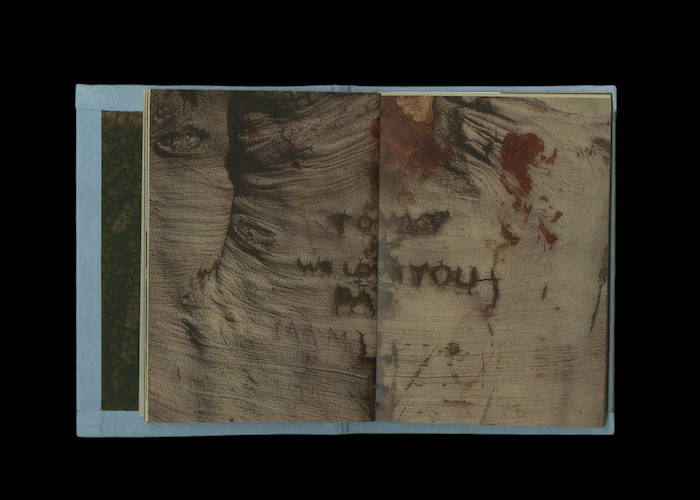
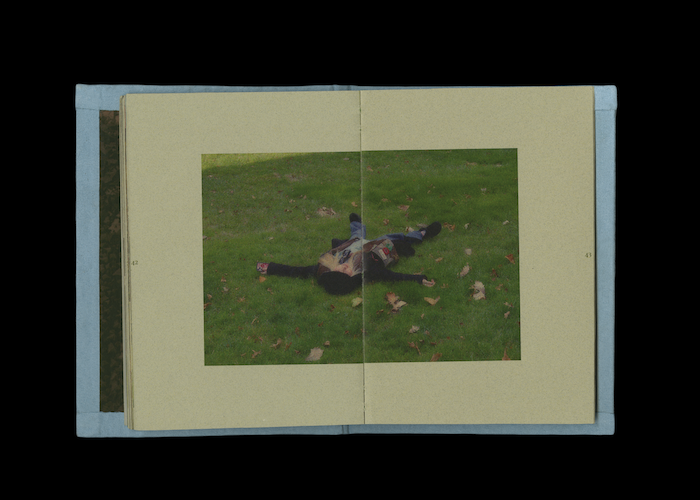
.

diff --git a/index.html b/index.html
@@ -480,6 +480,31 @@
             </div>
         </div>
 
+        <!-- YISU -->
+
+        <div class="P">
+            <div class="Projects" id="ProjectName">
+                    <h2>Cemetery Book</h2>
+                    <h2>2025</h2>
+                    <h2>KAN.012.104</h2>
+            </div>
+            <div class="scroll">
+                <img src="/assets/WorkPhotos/Yisu/Cemetery Book/cemetary1.png" alt="">
+                <img src="/assets/WorkPhotos/Yisu/Cemetery Book/cemetary2.png" alt="">
+                <img src="/assets/WorkPhotos/Yisu/Cemetery Book/cemetary3.png" alt="">
+                <img src="/assets/WorkPhotos/Yisu/Cemetery Book/cemetary4.png" alt="">
+                <img src="/assets/WorkPhotos/Yisu/Cemetery Book/cemetary5.png" alt="">
+                <img src="/assets/WorkPhotos/Yisu/Cemetery Book/cemetary6.png" alt="">
+                <img src="/assets/WorkPhotos/Yisu/Cemetery Book/cemetary7.png" alt="">
+                <img src="/assets/WorkPhotos/Yisu/Cemetery Book/cemetary8.png" alt="">
+                <img src="/assets/WorkPhotos/Yisu/Cemetery Book/cemetary9.png" alt="">
+                <img src="/assets/WorkPhotos/Yisu/Cemetery Book/cemetary10.png" alt="">
+                <img src="/assets/WorkPhotos/Yisu/Cemetery Book/cemetary11.png" alt="">
+                <img src="/assets/WorkPhotos/Yisu/Cemetery Book/cemetary12.png" alt="">
+
+            </div>
+        </div>
+
     </main>
 </body>
 </html>
